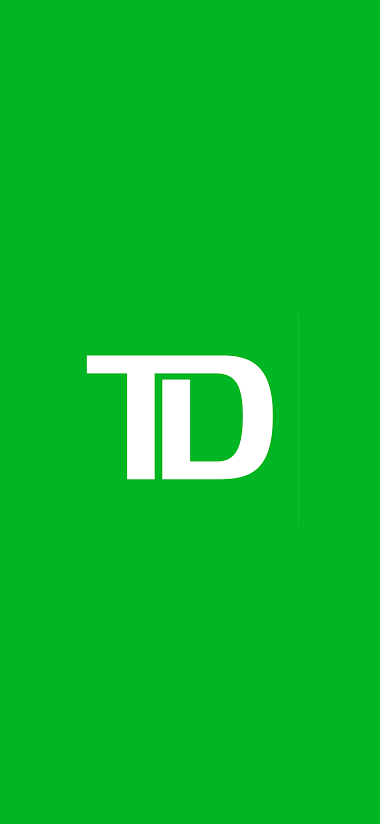
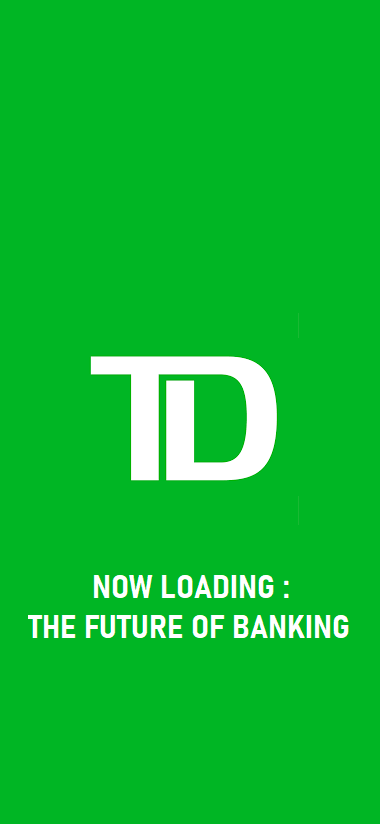
Basic UI Changes

diff --git a/React-Native-App/screens/Onboarding.js b/React-Native-App/screens/Onboarding.js
@@ -26,13 +26,13 @@ export default class Pro extends React.Component {
               </Block>
               <Block >
                 <Block>
-                  <Text color="white" size={60}>Toronto</Text>
+                  <Text color="white" size={50}>Welcome to</Text>
                 </Block>
                 <Block>
-                  <Text color="white" size={60}>Dominion</Text>
+                  <Text color="white" size={50}>the Future</Text>
                 </Block>
                 <Block row>
-                  <Text color="white" size={60}>Bank</Text>
+                  <Text color="white" size={30}>Powered by TD's ML Labs</Text>
                 </Block>
               </Block>
               <Block row style={{ marginTop: theme.SIZES.BASE * 1.5, marginBottom: theme.SIZES.BASE * 4 }}>
